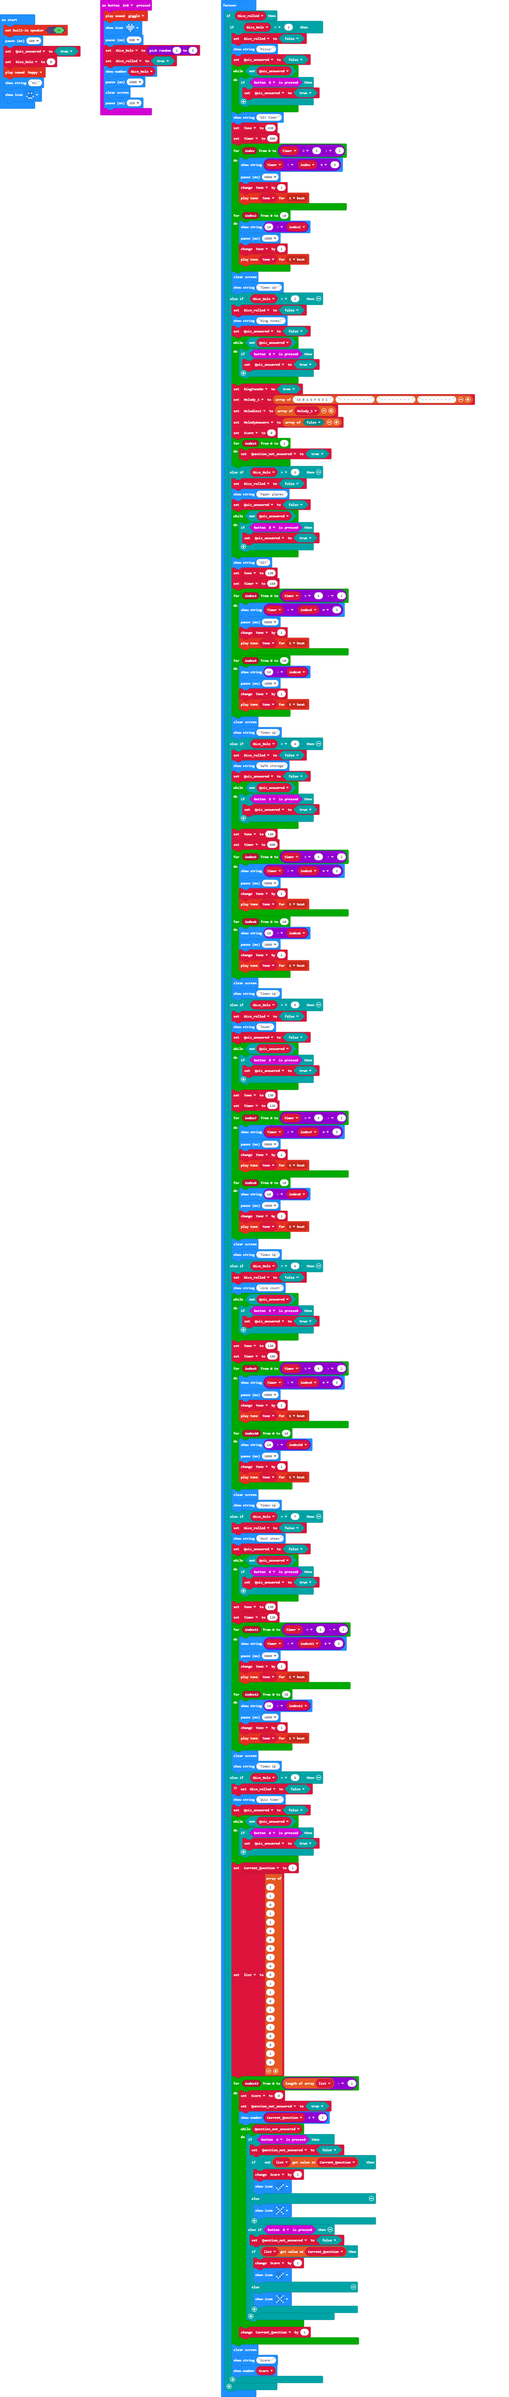
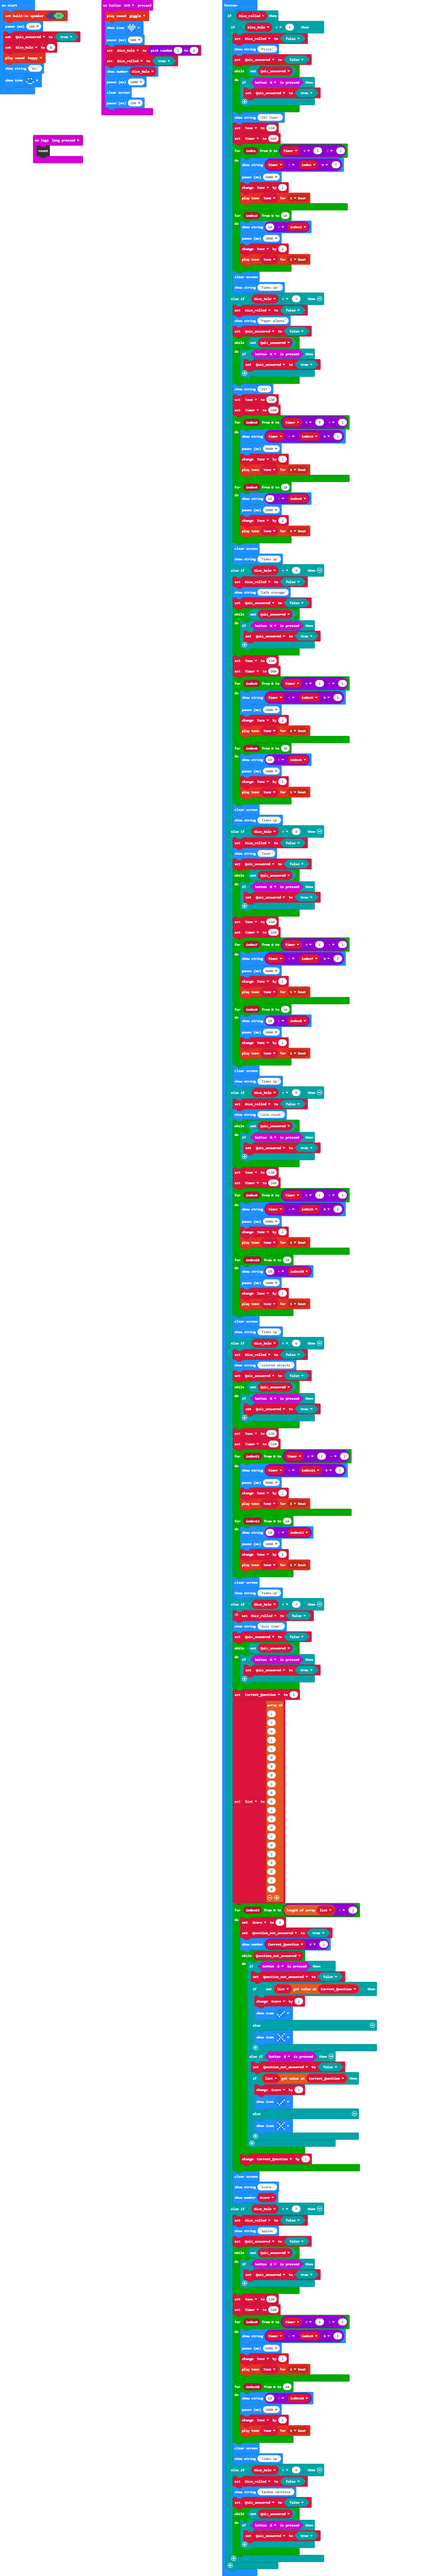
Updated timings, removed music challenge, added more challenges

Changed region(s): [[0.0, 0.0, 0.8535, 1.0], [0.884, 0.1562, 0.9145, 0.1875]]

diff --git a/main.ts b/main.ts
@@ -1,3 +1,6 @@
+input.onLogoEvent(TouchButtonEvent.LongPressed, function () {
+    control.reset()
+})
 input.onButtonPressed(Button.AB, function () {
     soundExpression.giggle.play()
     basic.showIcon(IconNames.Heart)
@@ -9,14 +12,10 @@ input.onButtonPressed(Button.AB, function () {
     basic.clearScreen()
     basic.pause(250)
 })
-let list: number[] = []
-let Current_Question = 0
 let Question_not_answered = false
 let Score = 0
-let MelodyAnswers: boolean[] = []
-let Melodies2: string[][] = []
-let Melody_1: string[] = []
-let RingToneOn = false
+let list: number[] = []
+let Current_Question = 0
 let Timer = 0
 let Tone = 0
 let Dice_rolled = false
@@ -41,7 +40,7 @@ basic.forever(function () {
             }
             basic.showString("DIY Time!")
             Tone = 130
-            Timer = 300
+            Timer = 480
             for (let index = 0; index <= Timer / 5 - 2; index++) {
                 basic.showString("" + (Timer - index * 5))
                 basic.pause(5000)
@@ -57,23 +56,6 @@ basic.forever(function () {
             basic.clearScreen()
             basic.showString("Times Up!")
         } else if (Dice_Role == 2) {
-            Dice_rolled = false
-            basic.showString("Ring tones!")
-            Quiz_answered = false
-            while (!(Quiz_answered)) {
-                if (input.buttonIsPressed(Button.B)) {
-                    Quiz_answered = true
-                }
-            }
-            RingToneOn = true
-            Melody_1 = ["C5 B A G F E D C ", "- - - - - - - - ", "- - - - - - - - ", "- - - - - - - - "]
-            Melodies2 = [Melody_1]
-            MelodyAnswers = [false]
-            Score = 0
-            for (let index1 = 0; index1 <= 2; index1++) {
-                Question_not_answered = true
-            }
-        } else if (Dice_Role == 3) {
             Dice_rolled = false
             basic.showString("Paper planes")
             Quiz_answered = false
@@ -99,7 +81,7 @@ basic.forever(function () {
             }
             basic.clearScreen()
             basic.showString("Times Up")
-        } else if (Dice_Role == 4) {
+        } else if (Dice_Role == 3) {
             Dice_rolled = false
             basic.showString("Safe storage")
             Quiz_answered = false
@@ -109,7 +91,7 @@ basic.forever(function () {
                 }
             }
             Tone = 130
-            Timer = 600
+            Timer = 300
             for (let index5 = 0; index5 <= Timer / 5 - 2; index5++) {
                 basic.showString("" + (Timer - index5 * 5))
                 basic.pause(5000)
@@ -124,7 +106,7 @@ basic.forever(function () {
             }
             basic.clearScreen()
             basic.showString("Times Up")
-        } else if (Dice_Role == 5) {
+        } else if (Dice_Role == 4) {
             Dice_rolled = false
             basic.showString("Tower")
             Quiz_answered = false
@@ -134,7 +116,7 @@ basic.forever(function () {
                 }
             }
             Tone = 130
-            Timer = 120
+            Timer = 240
             for (let index7 = 0; index7 <= Timer / 5 - 2; index7++) {
                 basic.showString("" + (Timer - index7 * 5))
                 basic.pause(5000)
@@ -149,7 +131,7 @@ basic.forever(function () {
             }
             basic.clearScreen()
             basic.showString("Times Up")
-        } else if (Dice_Role == 6) {
+        } else if (Dice_Role == 5) {
             Dice_rolled = false
             basic.showString("Wine count")
             while (!(Quiz_answered)) {
@@ -158,7 +140,7 @@ basic.forever(function () {
                 }
             }
             Tone = 130
-            Timer = 180
+            Timer = 240
             for (let index9 = 0; index9 <= Timer / 5 - 2; index9++) {
                 basic.showString("" + (Timer - index9 * 5))
                 basic.pause(5000)
@@ -173,9 +155,9 @@ basic.forever(function () {
             }
             basic.clearScreen()
             basic.showString("Times Up")
-        } else if (Dice_Role == 7) {
+        } else if (Dice_Role == 6) {
             Dice_rolled = false
-            basic.showString("Most shoes")
+            basic.showString("colored objects")
             Quiz_answered = false
             while (!(Quiz_answered)) {
                 if (input.buttonIsPressed(Button.B)) {
@@ -198,7 +180,7 @@ basic.forever(function () {
             }
             basic.clearScreen()
             basic.showString("Times Up")
-        } else if (Dice_Role == 8) {
+        } else if (Dice_Role == 7) {
             // Quiz answering done
             Dice_rolled = false
             basic.showString("Quiz time!")
@@ -238,6 +220,40 @@ basic.forever(function () {
             basic.clearScreen()
             basic.showString("Score:")
             basic.showNumber(Score)
+        } else if (Dice_Role == 7) {
+            Dice_rolled = false
+            basic.showString("Apples")
+            Quiz_answered = false
+            while (!(Quiz_answered)) {
+                if (input.buttonIsPressed(Button.B)) {
+                    Quiz_answered = true
+                }
+            }
+            Tone = 130
+            Timer = 180
+            for (let index9 = 0; index9 <= Timer / 5 - 2; index9++) {
+                basic.showString("" + (Timer - index9 * 5))
+                basic.pause(5000)
+                Tone += 1
+                music.playTone(Tone, music.beat(BeatFraction.Whole))
+            }
+            for (let index10 = 0; index10 <= 10; index10++) {
+                basic.showString("" + (10 - index10))
+                basic.pause(1000)
+                Tone += 1
+                music.playTone(Tone, music.beat(BeatFraction.Whole))
+            }
+            basic.clearScreen()
+            basic.showString("Times Up")
+        } else if (Dice_Role == 8) {
+            Dice_rolled = false
+            basic.showString("Random sentence")
+            Quiz_answered = false
+            while (!(Quiz_answered)) {
+                if (input.buttonIsPressed(Button.B)) {
+                    Quiz_answered = true
+                }
+            }
         }
     }
 })
